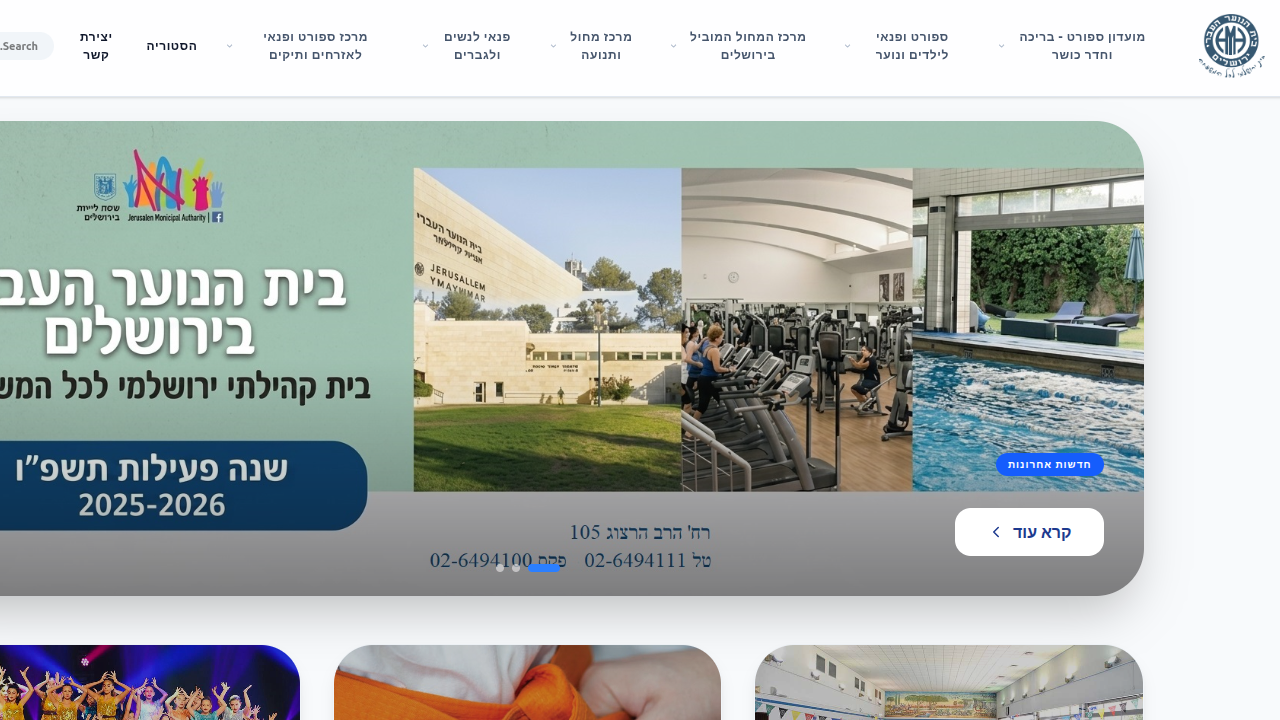
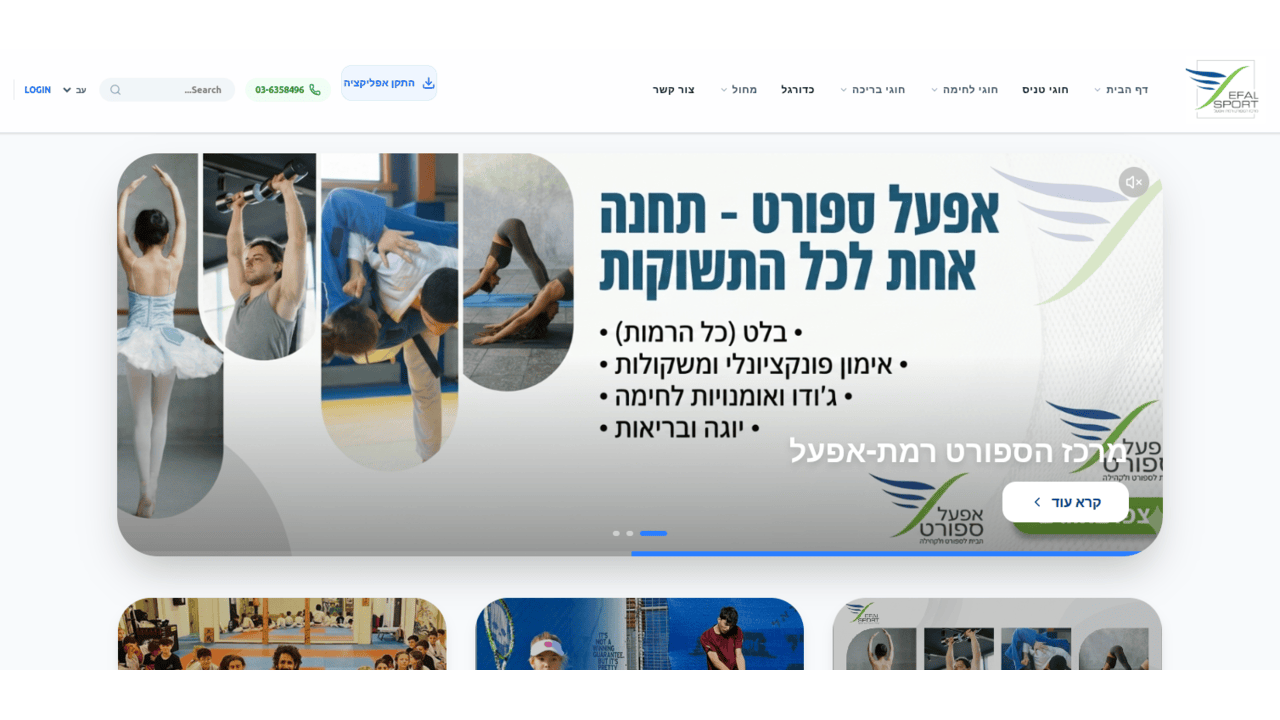
create button to contact us

diff --git a/components/admin/SubMenuEditor.jsx b/components/admin/SubMenuEditor.jsx
@@ -1,7 +1,7 @@
 import React, {useState, useEffect, useRef} from 'react';
 import {
     Trash2, FileText, Eye, Code, Maximize2, X, CheckCircle2, Link, Crop,
-    GripVertical, Copy, Check, Video, ExternalLink, RotateCcw, Upload, Bot, Globe
+    GripVertical, Copy, Check, Video, ExternalLink, RotateCcw, Upload, Bot, Globe, Mail
 } from 'lucide-react';
 
 import {useSubMenuEditor} from '@/components/admin/SubMenuEditor_Logic';
@@ -316,7 +316,7 @@ const SubMenuEditor = ({sub, menuId, isHe, handleFileUpload, removeFile, setMenu
                                     loading={actions.isProcessingFile && lastClicked === 'image'}
                                     success={actions.statusMsg === 'success' && lastClicked === 'image'}
                                     icon={Upload}
-                                    label={isHe ? 'תמונה ל-HTML' : 'Image to HTML'}
+                                    label={isHe ? 'תמונה ל-HTML' : 'Image for HTML'}
                                 />
 
                                 {/* Crop Image to HTML (900x323) */}
@@ -341,7 +341,7 @@ const SubMenuEditor = ({sub, menuId, isHe, handleFileUpload, removeFile, setMenu
                                     label={isHe ? 'באנר ל-HTML' : 'Banner (900x323)'}
                                 />
 
-                                {/* PDF to HTML */}
+                                {/* link to pdf */}
                                 <input type="file" ref={pdfInputRef} className="hidden" accept=".pdf" onChange={(e) => {
                                     const text = prompt(isHe ? "טקסט לכפתור:" : "Button text:", "Download PDF");
                                     if (text) actions.processFileToHtml(e.target.files[0], subMenuEditor_NewPdfHtml, text);
@@ -354,10 +354,10 @@ const SubMenuEditor = ({sub, menuId, isHe, handleFileUpload, removeFile, setMenu
                                     loading={actions.isProcessingFile && lastClicked === 'pdf'}
                                     success={actions.statusMsg === 'success' && lastClicked === 'pdf'}
                                     icon={FileText}
-                                    label={isHe ? 'PDF לכפתור' : 'PDF to Button'}
+                                    label={isHe ? 'קישור ל-PDF' : 'link to PDF'}
                                 />
 
-                                {/* Facebook Link to HTML Button */}
+                                {/* Link to Facebook */}
                                 <ActionButton
                                     onClick={() => {
                                         const url = prompt(isHe ? "הכנס כתובת פייסבוק:" : "Enter Facebook URL:", "https://www.facebook.com/reel/778211718240090");
@@ -397,7 +397,7 @@ const SubMenuEditor = ({sub, menuId, isHe, handleFileUpload, removeFile, setMenu
                                     loading={actions.isProcessingFile && lastClicked === 'fb'}
                                     success={(actions.statusMsg === 'success' && lastClicked === 'fb') || lastClicked === 'fb'}
                                     icon={Globe}
-                                    label={isHe ? 'קישור פייסבוק' : 'FB Link to Button'}
+                                    label={isHe ? 'קישור ל-פייסבוק' : 'Link to Facebook'}
                                 />
 
                                 {/* Instagram Link to HTML Button */}
@@ -439,7 +439,78 @@ const SubMenuEditor = ({sub, menuId, isHe, handleFileUpload, removeFile, setMenu
                                     loading={actions.isProcessingFile && lastClicked === 'ig'}
                                     success={(actions.statusMsg === 'success' && lastClicked === 'ig') || lastClicked === 'ig'}
                                     icon={Globe}
-                                    label={isHe ? 'קישור לאינסטגרם' : 'IG Link to Button'}
+                                    label={isHe ? 'קישור ל-אינסטגרם' : 'Link to Instagram'}
+                                />
+
+                                {/* Contact Us HTML Code & Scroll Button */}
+                                <ActionButton
+                                    onClick={() => {
+                                        const inputVal = prompt(
+                                            isHe
+                                                ? "הכנס טקסט לכפתור או קוד HTML שלם:"
+                                                : "Enter button text or paste entire HTML code:",
+                                            isHe ? "צור קשר" : "Contact Us"
+                                        );
+
+                                        if (inputVal) {
+                                            let generatedHtml = "";
+
+                                            // Check if the input contains HTML tags
+                                            const isHtml = /<[a-z][\s\S]*>/i.test(inputVal);
+
+                                            if (isHtml) {
+                                                try {
+                                                    // Parse the HTML string into a DOM document
+                                                    const parser = new DOMParser();
+                                                    const doc = parser.parseFromString(inputVal, 'text/html');
+                                                    // Find the anchor (link) element inside the HTML structure
+                                                    const anchor = doc.querySelector('a');
+
+                                                    if (anchor) {
+                                                        anchor.setAttribute('href', '#footer');
+                                                        // Use outerHTML of the body children to get the cleaned up, updated string
+                                                        generatedHtml = doc.body.innerHTML.trim();
+                                                    } else {
+                                                        // Fallback just in case they passed raw HTML without an <a> tag
+                                                        generatedHtml = inputVal.trim();
+                                                    }
+                                                } catch (e) {
+                                                    console.error("HTML parsing failed, falling back to input structure", e);
+                                                    generatedHtml = inputVal.trim();
+                                                }
+                                            } else {
+                                                // Default structure if it's just plain text string
+                                                generatedHtml = `
+                                                    <div style="display: flex; justify-content: center; width: 100%; margin: 16px 0;">
+                                                        <a href="#footer" 
+                                                           style="display: inline-flex; align-items: center; gap: 8px; background-color: #334155; color: white; padding: 12px 24px; border-radius: 9999px; text-decoration: none; font-weight: 500; font-family: system-ui, -apple-system, sans-serif; transition: transform 0.2s, opacity 0.2s;" 
+                                                           onmouseover="this.style.opacity='0.9'; this.style.transform='scale(1.02)';" 
+                                                           onmouseout="this.style.opacity='1'; this.style.transform='scale(1)';"
+                                                        >
+                                                            <svg width="20" height="20" viewBox="0 0 24 24" fill="none" stroke="currentColor" stroke-width="2" stroke-linecap="round" stroke-linejoin="round">
+                                                                <path d="M4 4h16c1.1 0 2 .9 2 2v12c0 1.1-.9 2-2 2H4c-1.1 0-2-.9-2-2V6c0-1.1.9-2 2-2z"></path>
+                                                                <polyline points="22,6 12,13 2,6"></polyline>
+                                                            </svg>
+                                                            <span>${inputVal}</span>
+                                                        </a>
+                                                    </div>`.trim();
+                                            }
+
+                                            // Copy to clipboard and handle UX transitions
+                                            navigator.clipboard.writeText(generatedHtml)
+                                                .then(() => {
+                                                    setLastClicked('contact');
+                                                    // Smoothly scroll down to the contact area
+                                                    document.getElementById('footer')?.scrollIntoView({behavior: 'smooth'});
+                                                    setTimeout(() => setLastClicked(null), 2000);
+                                                })
+                                                .catch(err => console.error("Clipboard Error:", err));
+                                        }
+                                    }}
+                                    loading={actions.isProcessingFile && lastClicked === 'contact'}
+                                    success={lastClicked === 'contact'}
+                                    icon={Mail}
+                                    label={isHe ? 'כפתור צור קשר' : 'Contact Us'}
                                 />
 
                                 {/* JSON Viewer Button */}
